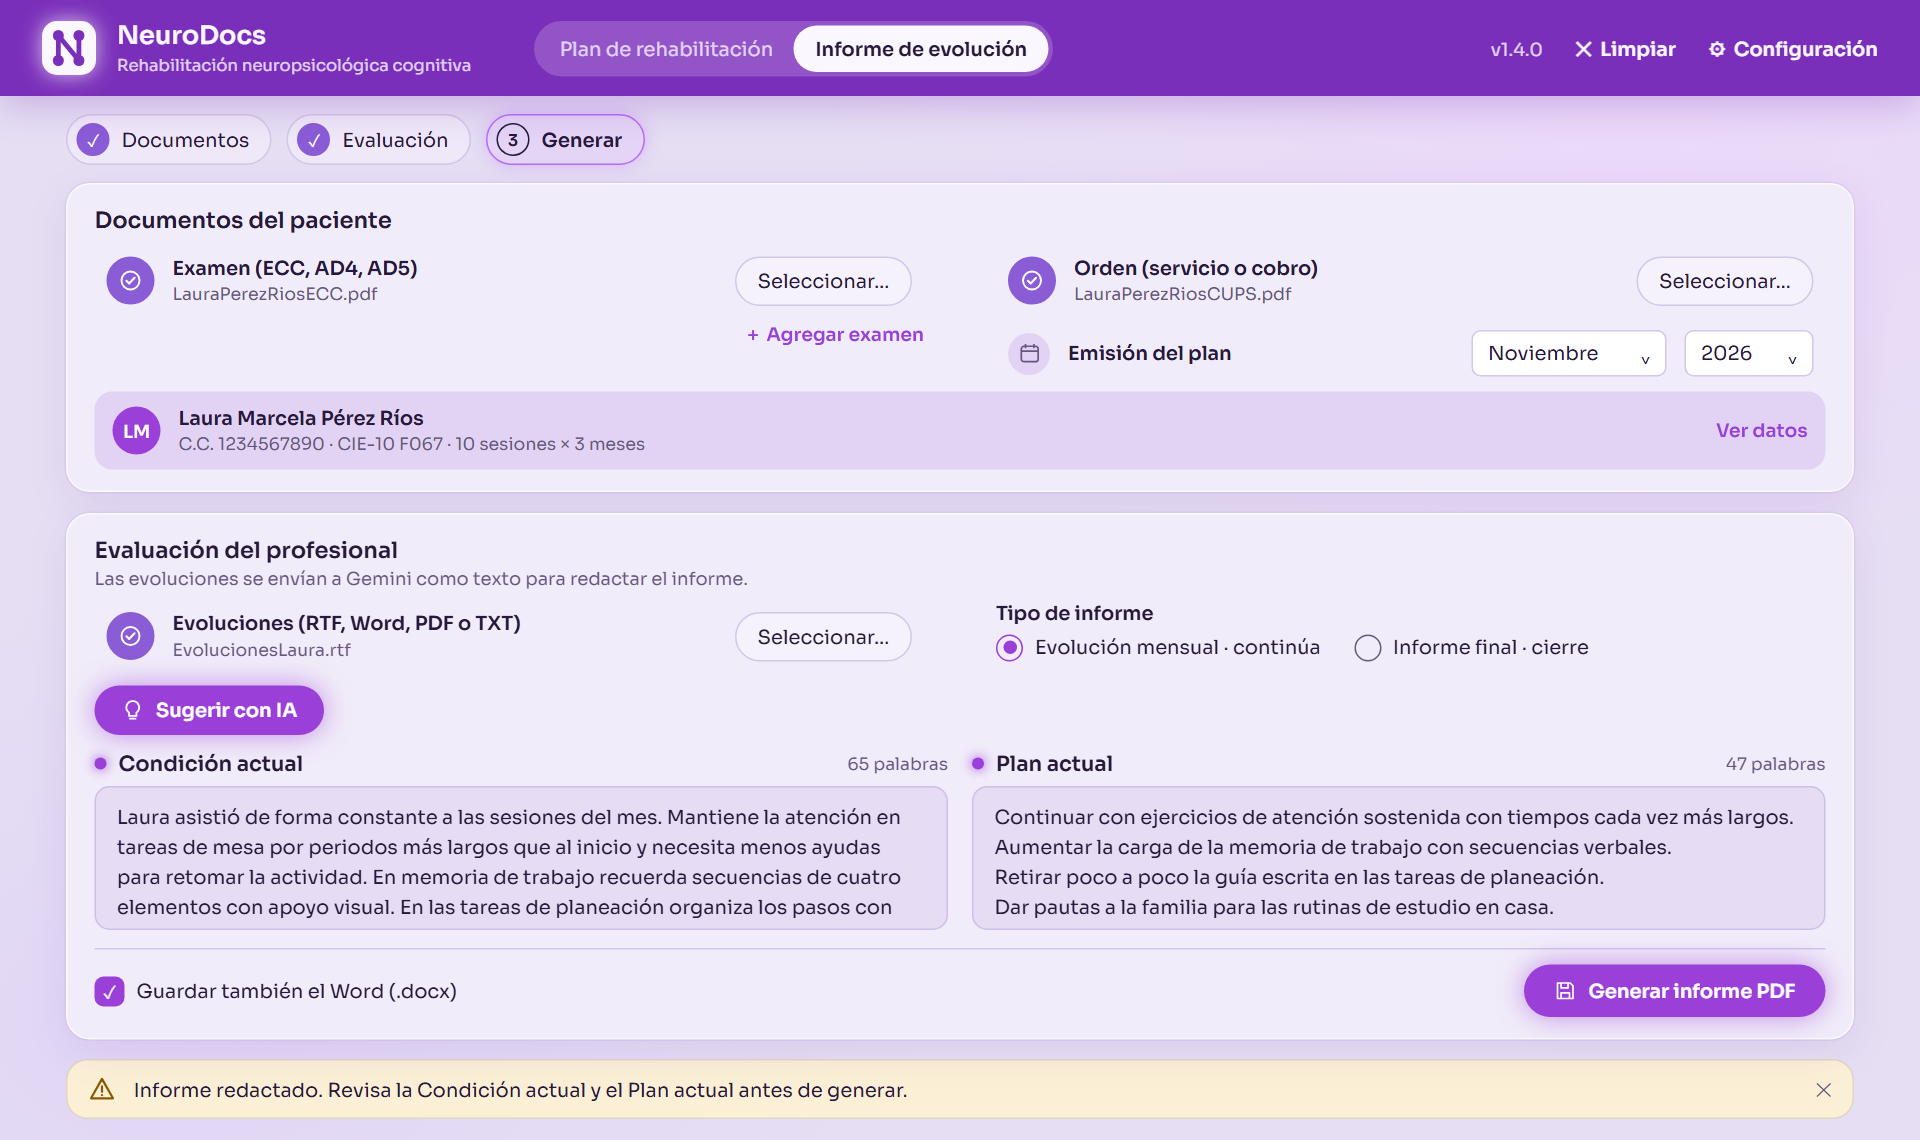
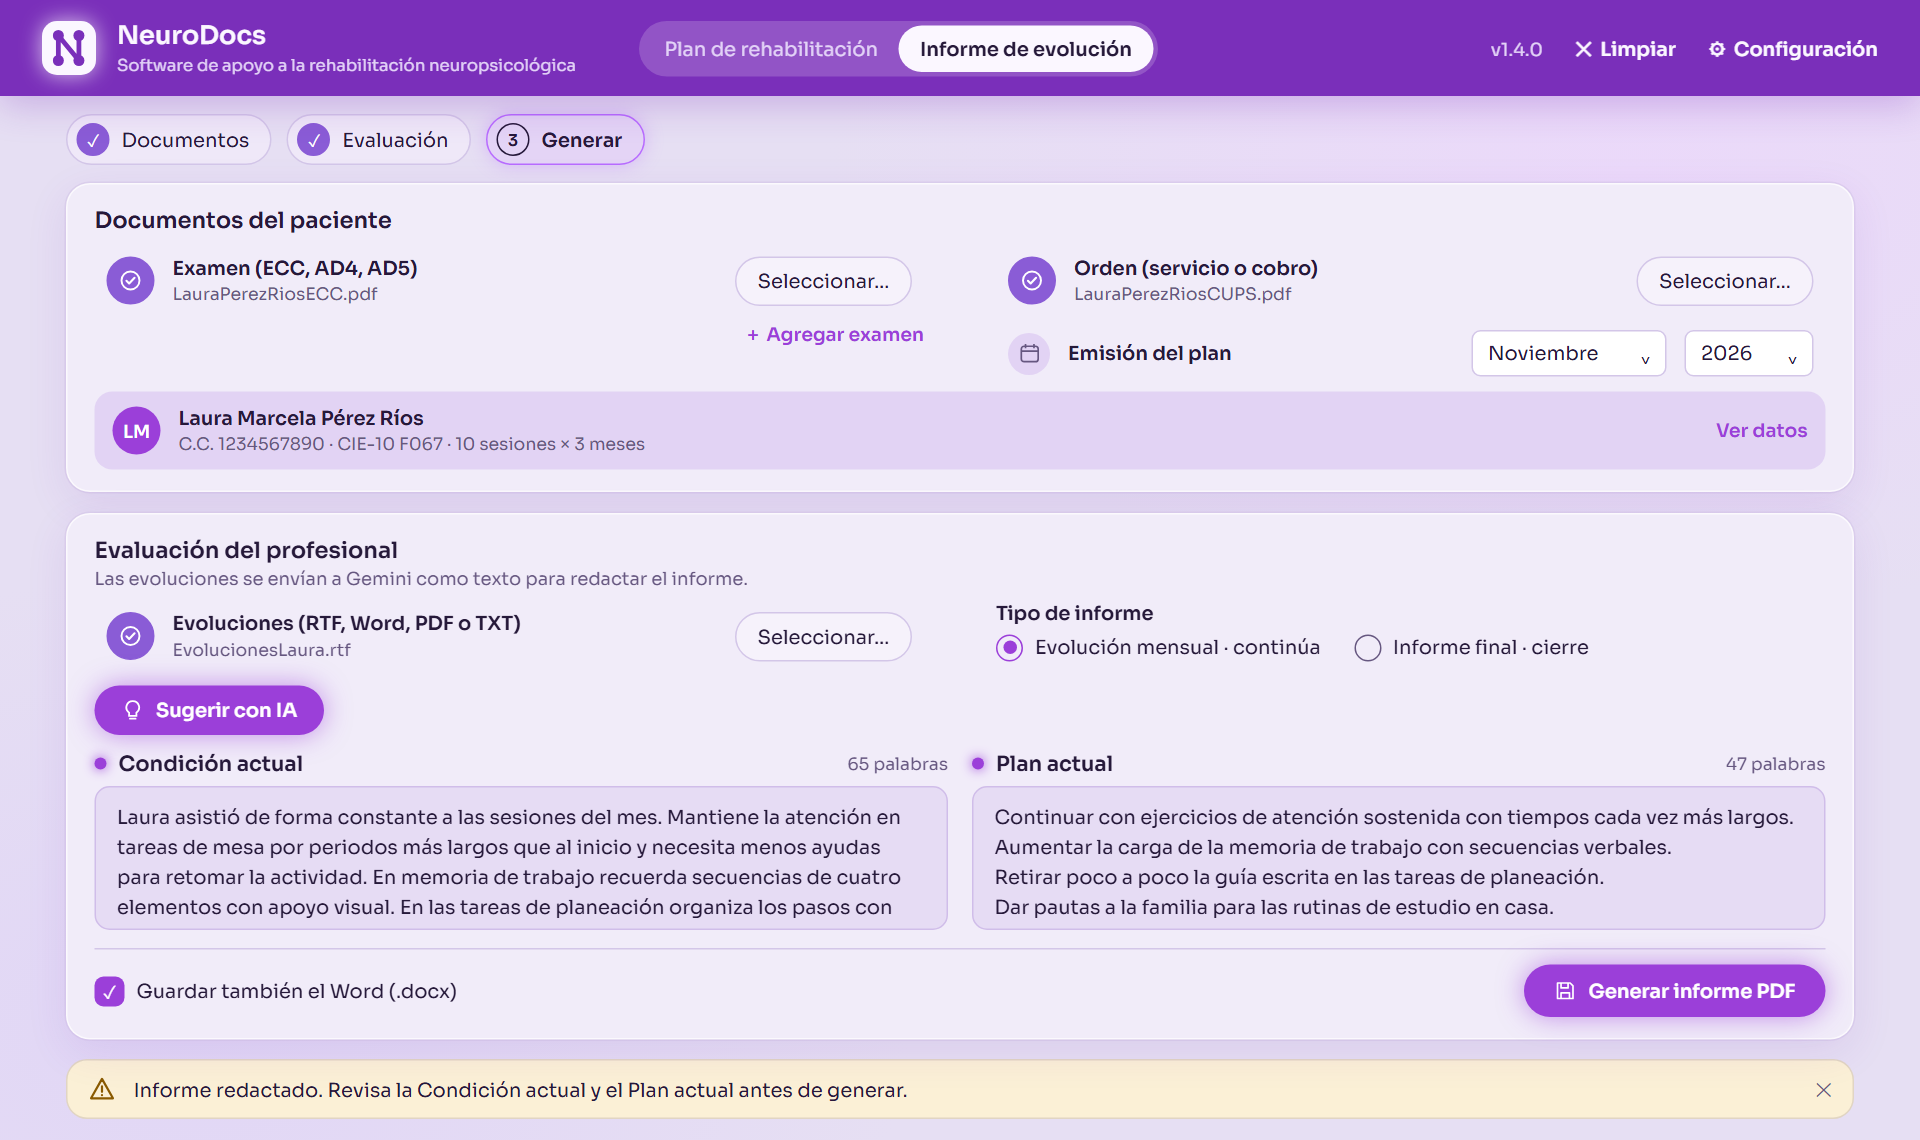
fix: cambia la descripción de la barra superior

Changed region(s): [[0.0625, 0.0, 0.625, 0.0921]]

diff --git a/src/NeuroDocs/MainWindow.xaml b/src/NeuroDocs/MainWindow.xaml
@@ -81,7 +81,7 @@
                     </Border>
                     <StackPanel DockPanel.Dock="Left" Margin="12,0,0,0" VerticalAlignment="Center">
                         <TextBlock Text="NeuroDocs" FontSize="17" FontWeight="SemiBold" Foreground="{StaticResource BarraTextoBrush}"/>
-                        <TextBlock Text="Rehabilitación neuropsicológica cognitiva" FontSize="11"
+                        <TextBlock Text="Software de apoyo a la rehabilitación neuropsicológica" FontSize="11"
                                    Foreground="{StaticResource BarraTextoSuaveBrush}"/>
                     </StackPanel>
 
